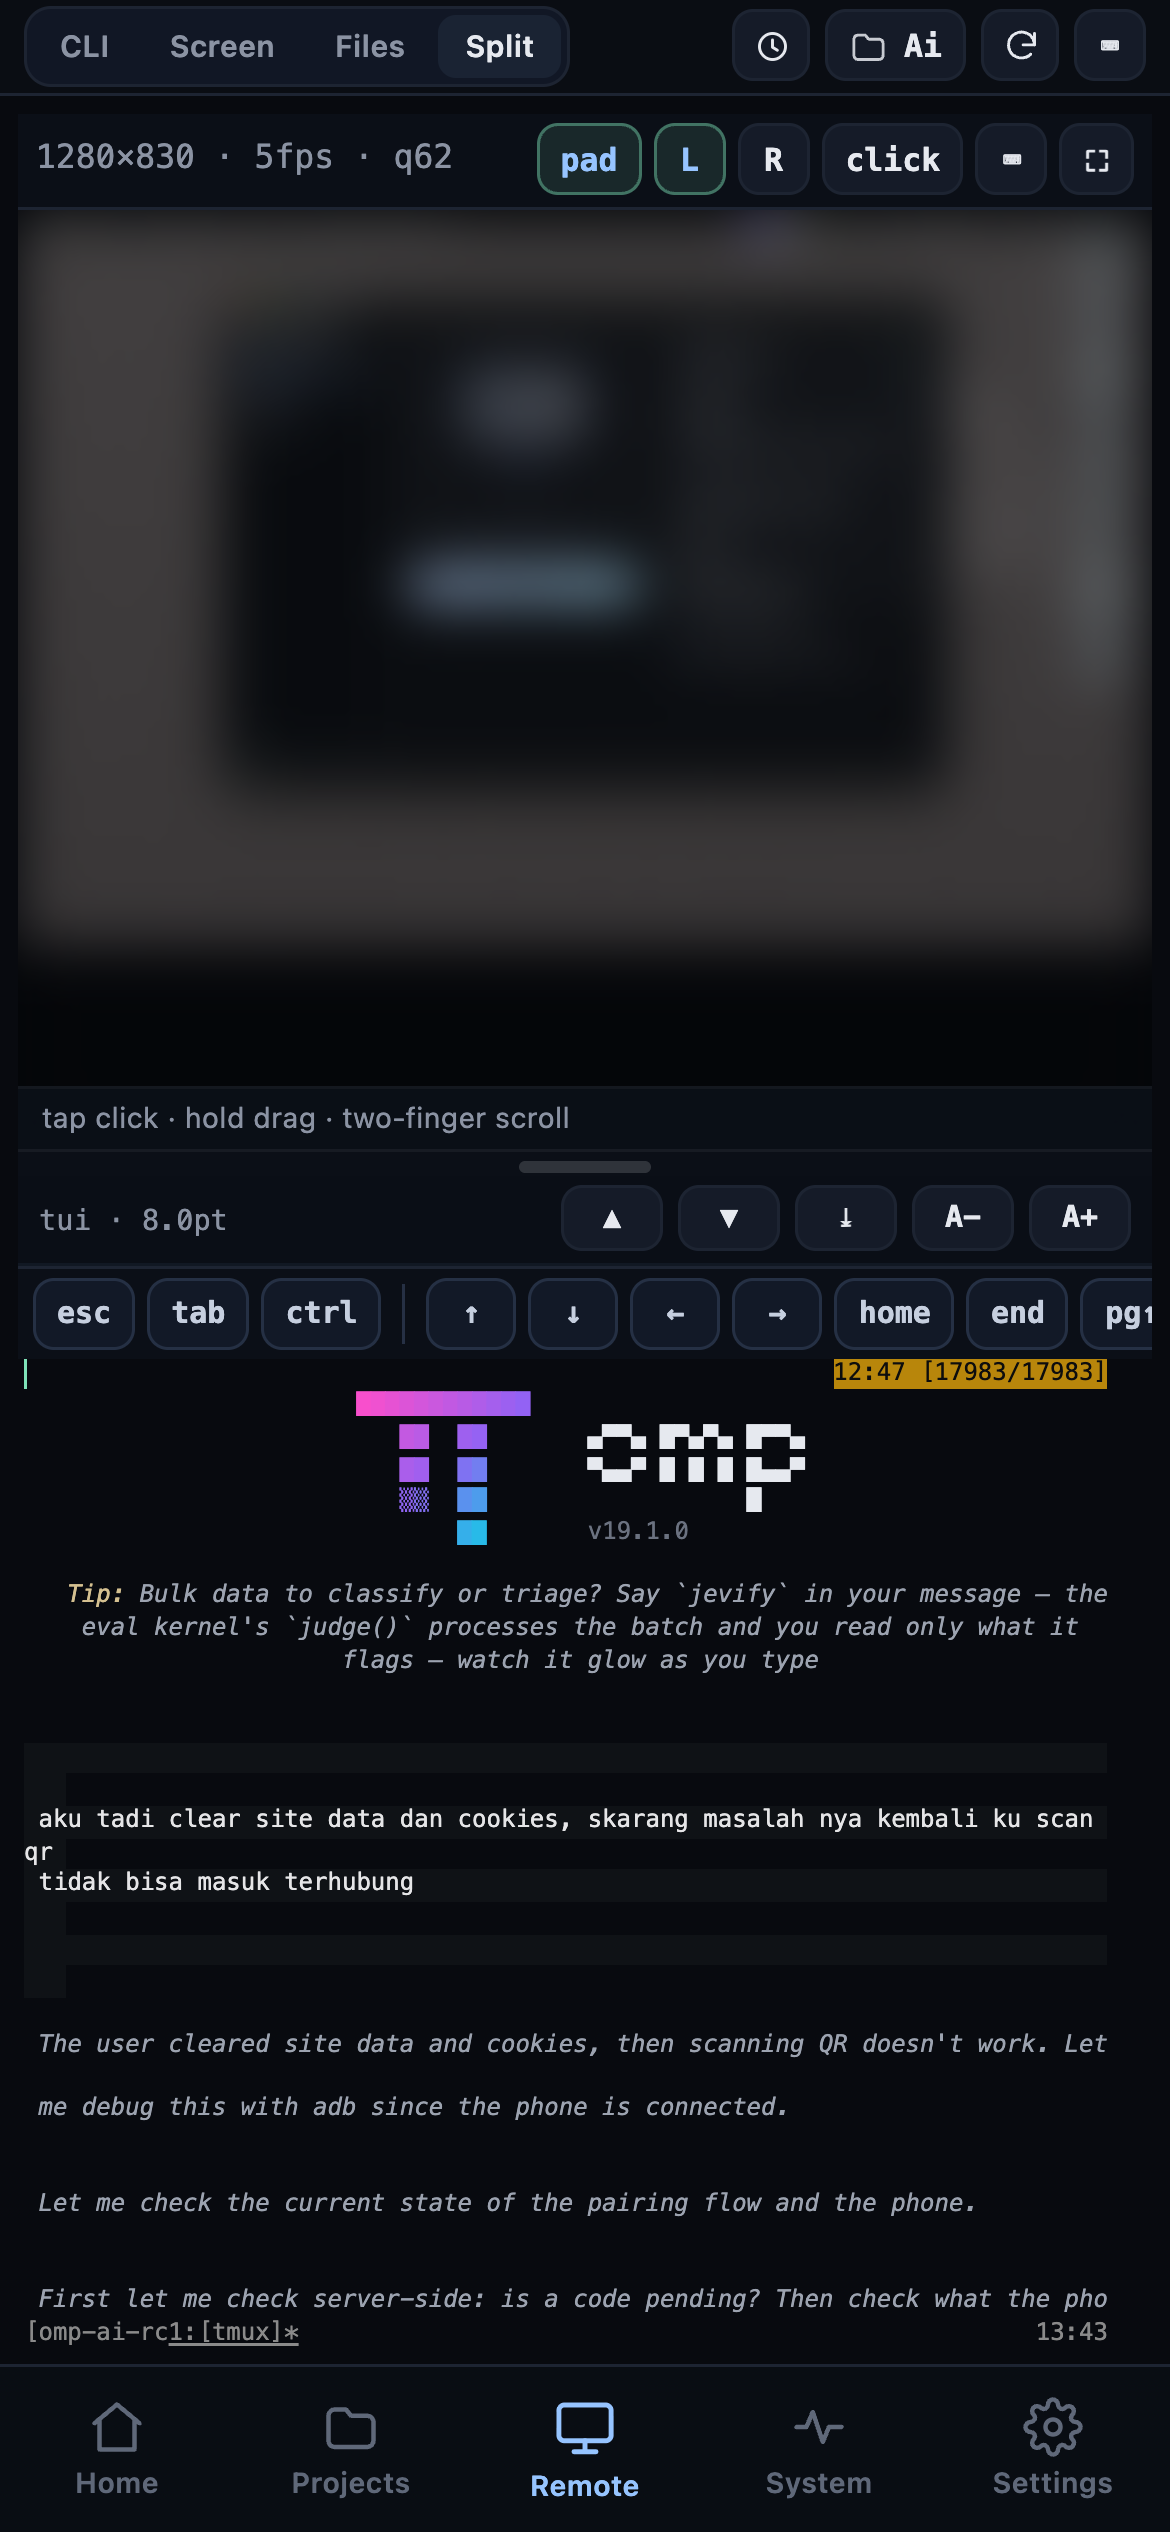
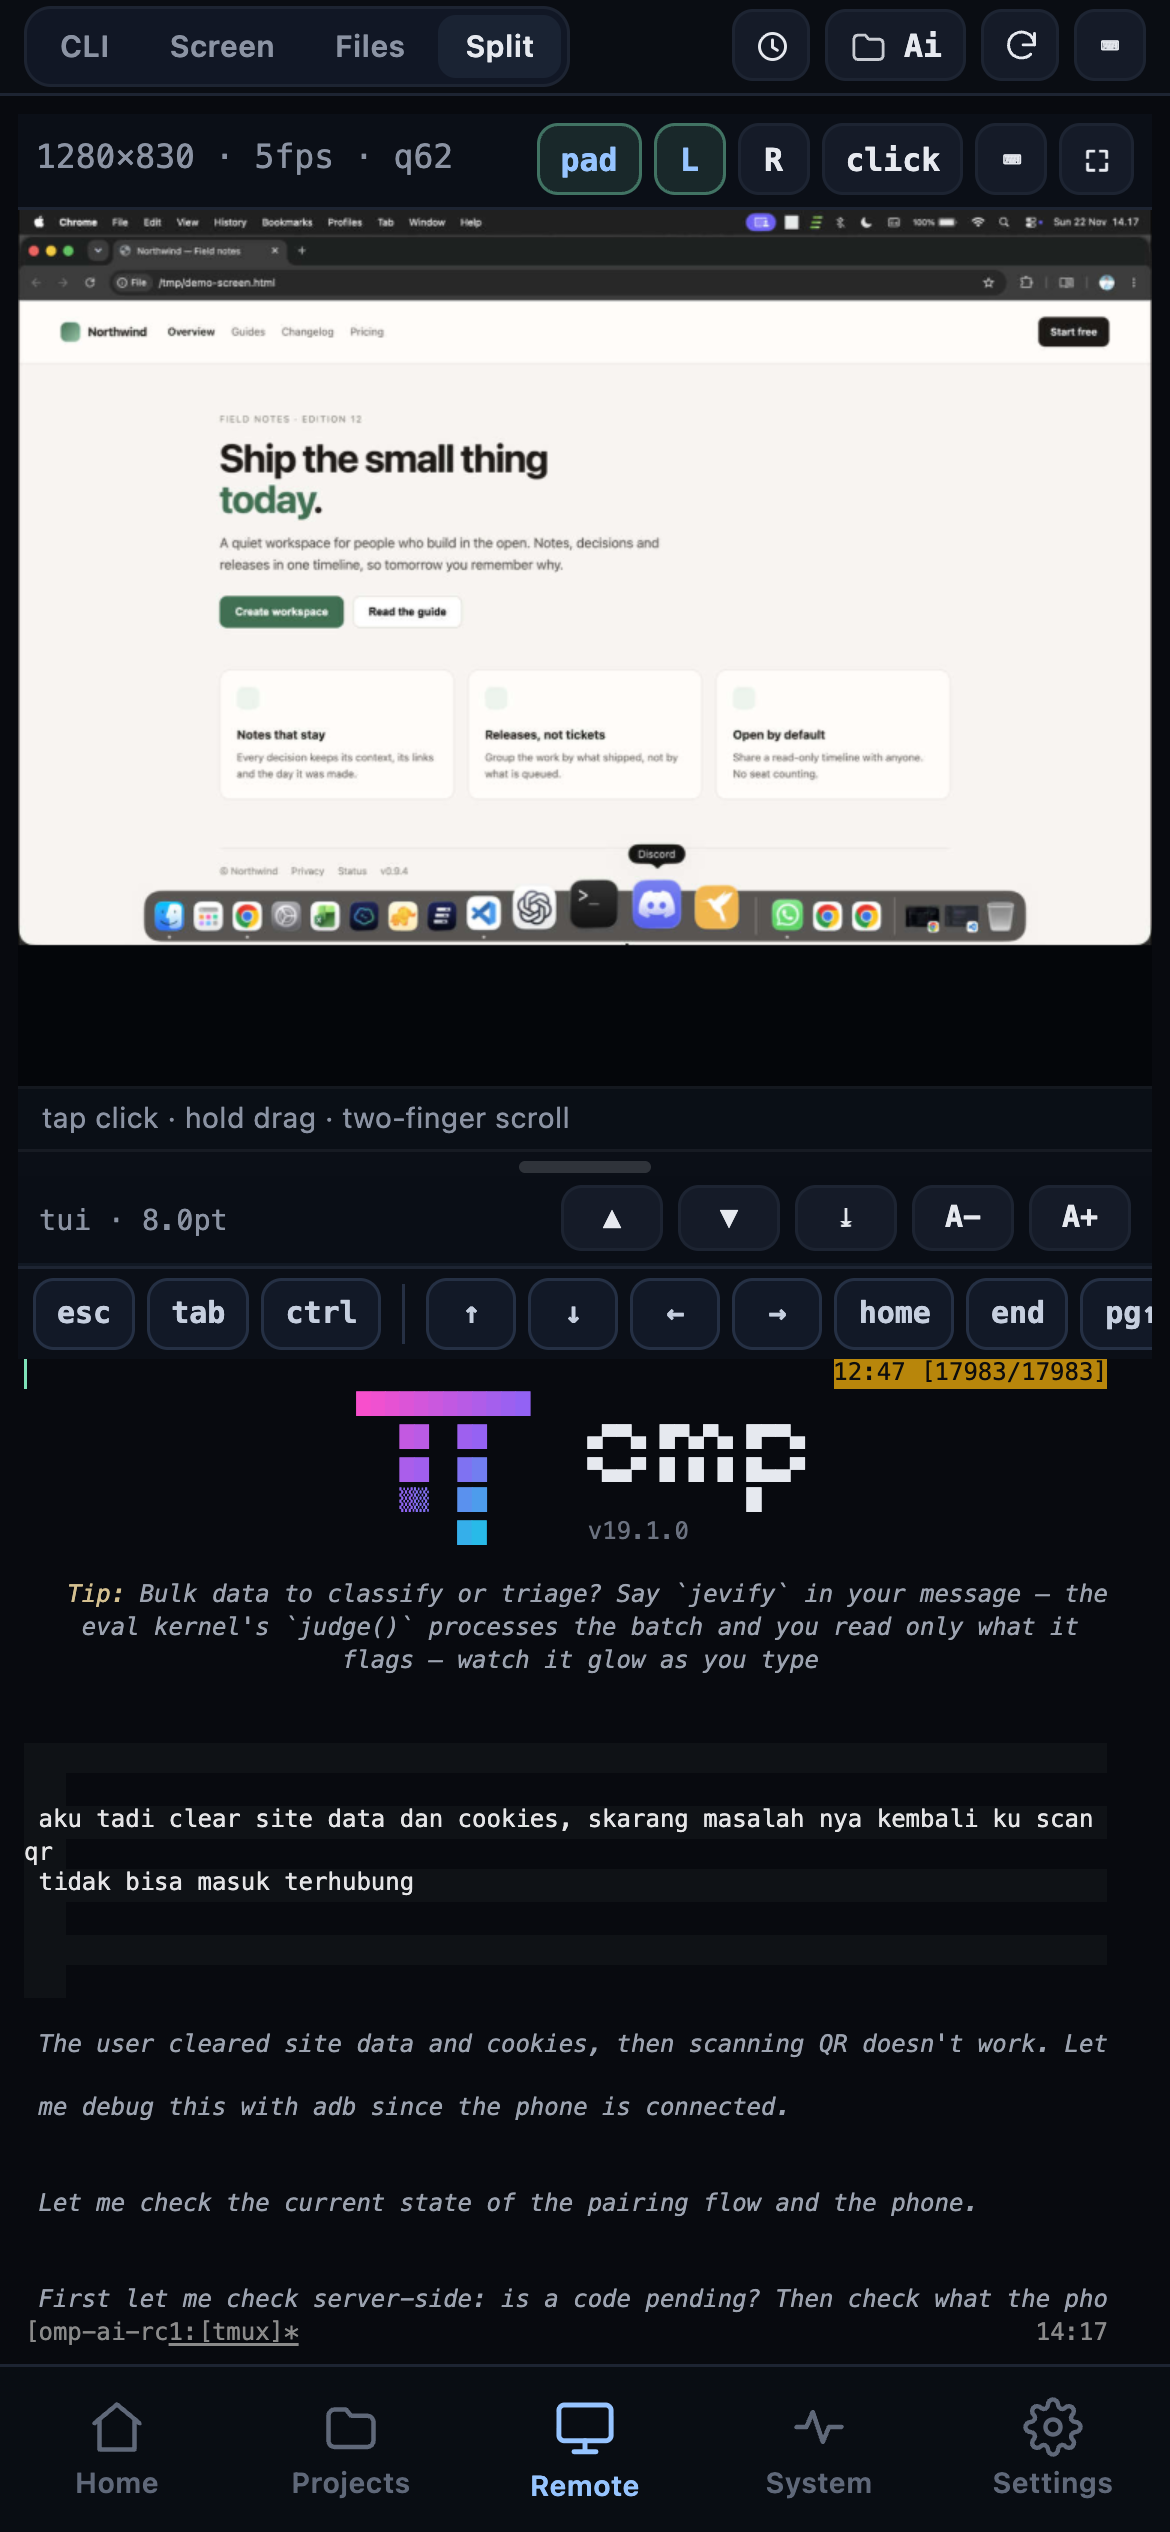
Docs: nine-cell screenshot grid, unblurred screen
Adds the folder picker, markdown preview and code viewer captures. The Split
screen area is no longer blurred: it shows a neutral demo page so the source
desktop is not published.

Screenshots: home, projects, sessions, add project, remote, split, markdown,
code, settings.

Changed region(s): [[0.0, 0.0624, 0.9846, 0.3744]]

diff --git a/docs/screenshots.md b/docs/screenshots.md
@@ -2,7 +2,7 @@
 
 The desktop app handles pairing and permissions; the PWA is the remote itself.
 
-![Desktop app and mobile screens](assets/screenshot-grid.png)
+![Desktop app and nine mobile screens](assets/screenshot-grid.png)
 
 ## Desktop app
 
@@ -10,18 +10,22 @@ The desktop app handles pairing and permissions; the PWA is the remote itself.
 |---|---|
 | ![Desktop connect tab](assets/screenshots/desktop-connect.png) | ![Pairing QR and code](assets/screenshots/desktop-qr-code.png) |
 
-## Mobile — 3 × 2
+## Mobile — 3 × 3
 
 | Home | Projects | Sessions |
 |---|---|---|
 | ![Home](assets/screenshots/mobile-home.png) | ![Projects](assets/screenshots/mobile-projects.png) | ![Sessions](assets/screenshots/mobile-sessions.png) |
-| **Remote (CLI)** | **Split** | **Settings** |
-| ![Remote CLI](assets/screenshots/mobile-remote.png) | ![Split layout](assets/screenshots/mobile-split.png) | ![Settings](assets/screenshots/mobile-settings.png) |
+| **Add project** | **Remote (CLI)** | **Split** |
+| ![Folder picker](assets/screenshots/mobile-browse.png) | ![Remote CLI](assets/screenshots/mobile-remote.png) | ![Split layout](assets/screenshots/mobile-split.png) |
+| **Markdown preview** | **Code viewer** | **Settings** |
+| ![Markdown preview](assets/screenshots/mobile-markdown.png) | ![Code viewer](assets/screenshots/mobile-code.png) | ![Settings](assets/screenshots/mobile-settings.png) |
 
 ## Notes on these captures
 
 - Device ID, hostname, local IP and paths are placeholders; the relay address is
   `relay.example.com`. A real deployment shows your own values.
-- The screen area in Split is blurred on purpose. It would otherwise show the
-  desktop of the machine that produced these screenshots.
+- The screen area in Split shows a neutral demo page, not the machine that
+  produced these captures.
 - The pairing code is single-use and expired when you read this.
+- Split is stacked here because the phone is in portrait; in landscape it becomes
+  screen left, terminal right.
